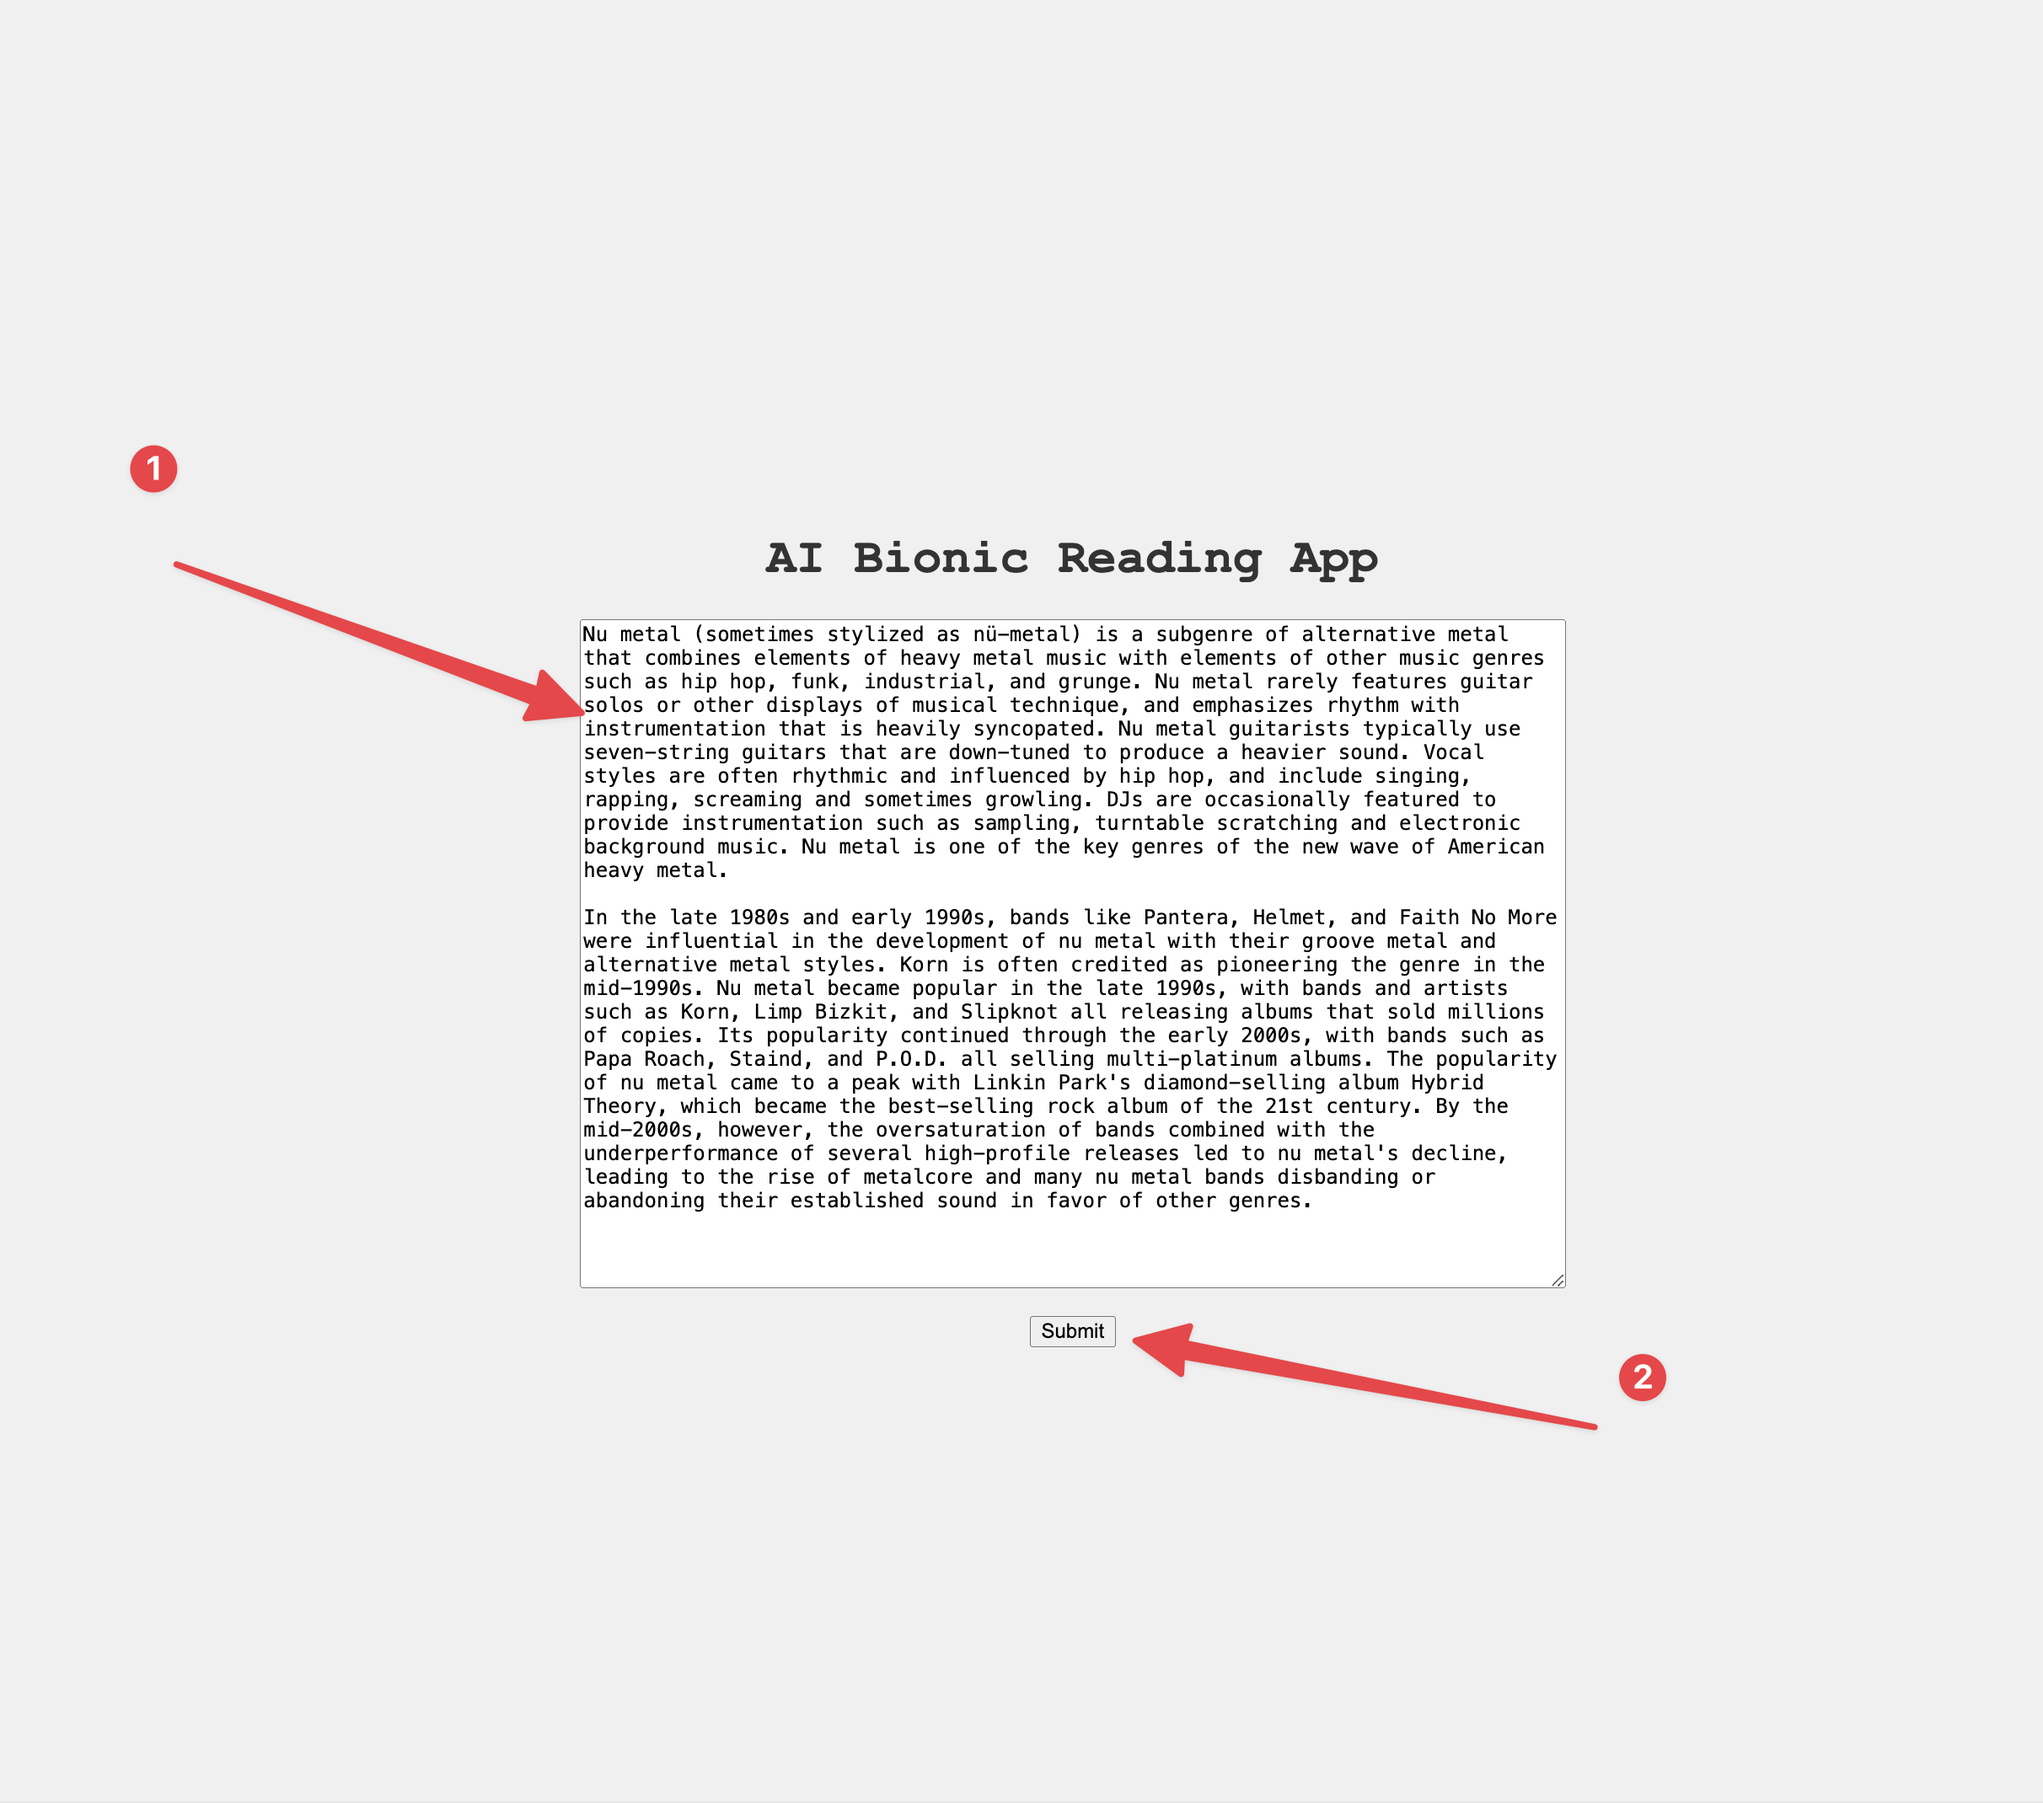
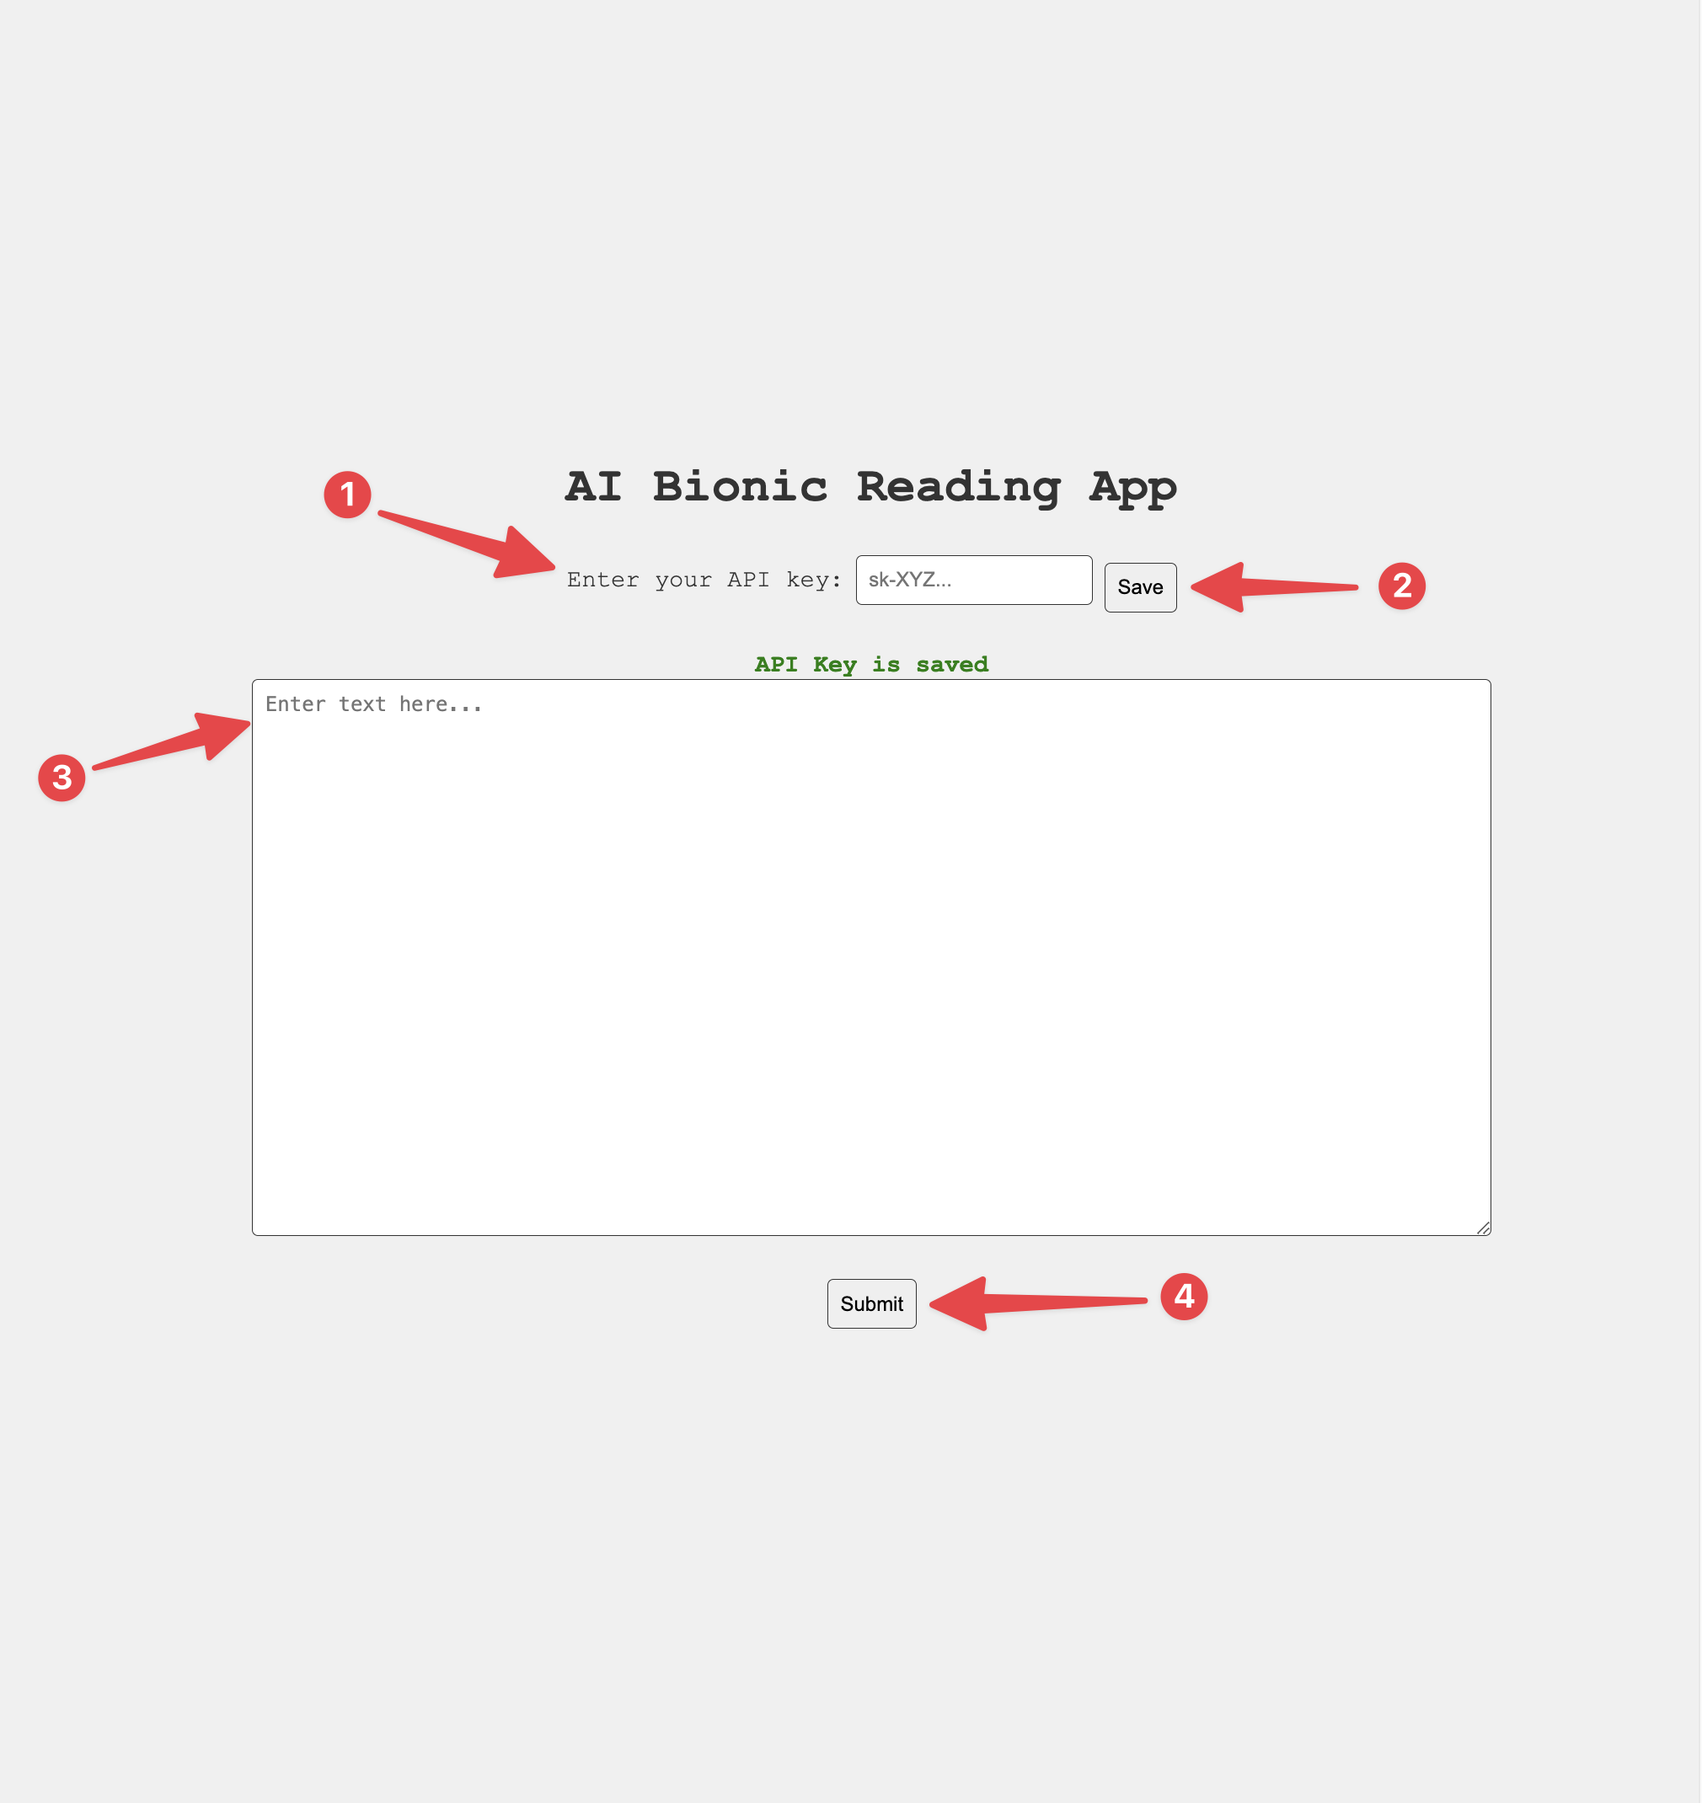
ic

diff --git a/app.js b/app.js
@@ -1,0 +1,97 @@
+document.addEventListener('DOMContentLoaded', (event) => {
+    checkApiKey();
+});
+
+document.getElementById('saveApiKeyBtn').addEventListener('click', function() {
+    const apiKey = document.getElementById('apiKey').value;
+    if (apiKey) {
+        localStorage.setItem('apiKey', apiKey);
+        updateApiKeyStatus(true);
+        document.getElementById('apiKey').value = ''; // Clear the input field
+    } else {
+        alert('Please enter a valid API key.');
+    }
+});
+
+document.getElementById('submitBtn').addEventListener('click', function() {
+    const inputText = document.getElementById('inputText').value;
+    if (!localStorage.getItem('apiKey')) {
+        alert('Please enter and save your API key first.');
+        return;
+    }
+    processText(inputText);
+});
+
+function checkApiKey() {
+    const apiKey = localStorage.getItem('apiKey');
+    if (apiKey) {
+        updateApiKeyStatus(true);
+    } else {
+        updateApiKeyStatus(false);
+    }
+}
+
+function updateApiKeyStatus(isKeyPresent) {
+    const apiKeyStatus = document.getElementById('apiKeyStatus');
+    if (isKeyPresent) {
+        apiKeyStatus.innerText = 'API Key is saved';
+        apiKeyStatus.style.color = 'green';
+    } else {
+        apiKeyStatus.innerText = 'API Key is missing';
+        apiKeyStatus.style.color = 'red';
+    }
+}
+
+async function processText(text) {
+    try {
+        const apiKey = localStorage.getItem('apiKey');
+        console.log('Using API Key:', apiKey); // Debugging
+        const response = await fetch('https://api.openai.com/v1/chat/completions', {
+            method: 'POST',
+            headers: {
+                'Content-Type': 'application/json',
+                'Authorization': `Bearer ${apiKey}`
+            },
+            body: JSON.stringify({
+                model: "gpt-4o",
+                messages: [
+                    {"role": "system", "content": "You are an accurate reading assistant. Only return the most important key words that are particularly relevant for reading comprehension - in raw, plaintext format. The point is that the words you have selected are going to be integrated into the so-called bionic reading method and their syllables, they will automatically be marked in bold to improve the reader's reading flow. So don't mark it yourself in bold. Only return the plain words. And be sure to consider this aspect: which nouns, verbs, adjectives or other word types are relevant to improve the reader's reading flow and comprehension of the text? This also means that you must carefully consider for each statement whether and which word types could be relevant at all."},
+                    {"role": "user", "content": text}
+                ]
+            })
+        });
+
+        console.log('Response Status:', response.status); // Debugging
+
+        if (!response.ok) {
+            if (response.status === 401) {
+                throw new Error('Unauthorized: Check your API Key.');
+            } else {
+                throw new Error(`Error: ${response.statusText}`);
+            }
+        }
+
+        const data = await response.json();
+        console.log('Response Data:', data); // Debugging
+
+        if (data.choices && data.choices.length > 0 && data.choices[0].message) {
+            const keywords = data.choices[0].message.content.trim().split(', ');
+            const formattedText = formatTextWithKeywords(text, keywords);
+            document.getElementById('outputText').innerHTML = formattedText;
+        } else {
+            throw new Error('Unexpected response format');
+        }
+    } catch (error) {
+        console.error('Error:', error);
+        alert(error.message || 'An error occurred while processing the text.');
+    }
+}
+
+function formatTextWithKeywords(text, keywords) {
+    let formattedText = text;
+    keywords.forEach(keyword => {
+        const regex = new RegExp(`\\b${keyword}\\b`, 'gi');
+        formattedText = formattedText.replace(regex, `<b>${keyword}</b>`);
+    });
+    return formattedText;
+}

diff --git a/index.html b/index.html
@@ -1,0 +1,96 @@
+<!DOCTYPE html>
+<html lang="en">
+<head>
+<meta charset="UTF-8">
+<meta name="viewport" content="width=device-width, initial-scale=1.0">
+<title>AI Bionic Reading App</title>
+<style>
+  html, body {
+    height: 100%;
+    width: 100%;
+    margin: 0;
+    padding: 0;
+    font-family: 'Courier New', Courier, monospace;
+    font-size: 16px;
+    background-color: #f0f0f0;
+    color: #333;
+}
+
+b {
+    font-weight: bold;
+}
+
+#outputText {
+    white-space: pre-wrap;
+    max-width: 800px;
+    min-width: 400px;
+}
+
+.main-container {
+    display: flex;
+    flex-direction: column;
+    align-items: center;
+    justify-content: center;
+    height: 100%;
+    width: 100%;
+    padding: 16px;
+}
+
+.input-group {
+    display: flex;
+    align-items: center;
+    margin-bottom: 16px;
+    gap: 8px; /* Space between input and button */
+}
+
+input[type="text"], textarea, button {
+    border: 1px solid #333;
+    border-radius: 4px;
+    padding: 8px;
+}
+
+button {
+    cursor: pointer;
+}
+
+#inputText {
+    width: 100%;
+    min-width: 400px;
+    max-width: 800px;
+    min-height: 350px;
+    max-height: 1000px;
+    resize: vertical;
+}
+
+#submitBtn, #saveApiKeyBtn {
+    margin-top: 10px;
+}
+
+#apiKeyStatus {
+    margin-top: 10px;
+    font-weight: bold;
+}
+
+#outputText {
+    margin-top: 16px;
+    min-width: 400px;
+    max-width: 800px;
+}
+</style>
+</head>
+<body>
+    <div class="main-container">
+      <h1>AI Bionic Reading App</h1>
+      <div class="input-group">
+        <label for="apiKey">Enter your API key:</label>
+        <input type="text" id="apiKey" placeholder="sk-XYZ... " />
+        <button id="saveApiKeyBtn">Save</button>
+      </div>
+      <div id="apiKeyStatus"></div>
+      <textarea id="inputText" rows="4" cols="50" placeholder="Enter text here..."></textarea><br>
+      <button id="submitBtn">Submit</button>
+      <div id="outputText"></div>
+    </div>
+    <script src="app.js"></script>
+</body>
+</html>
